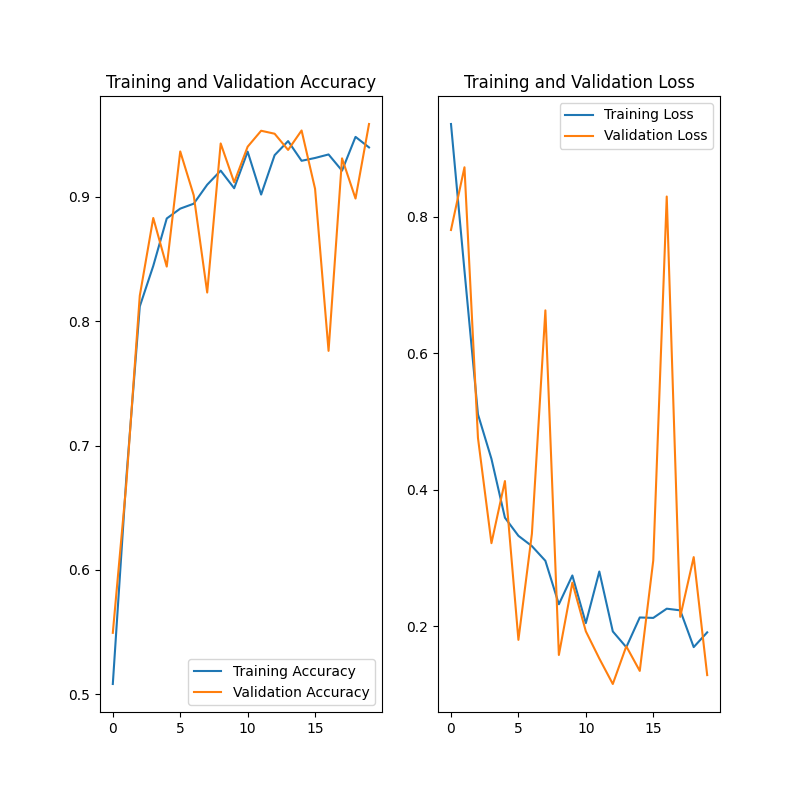
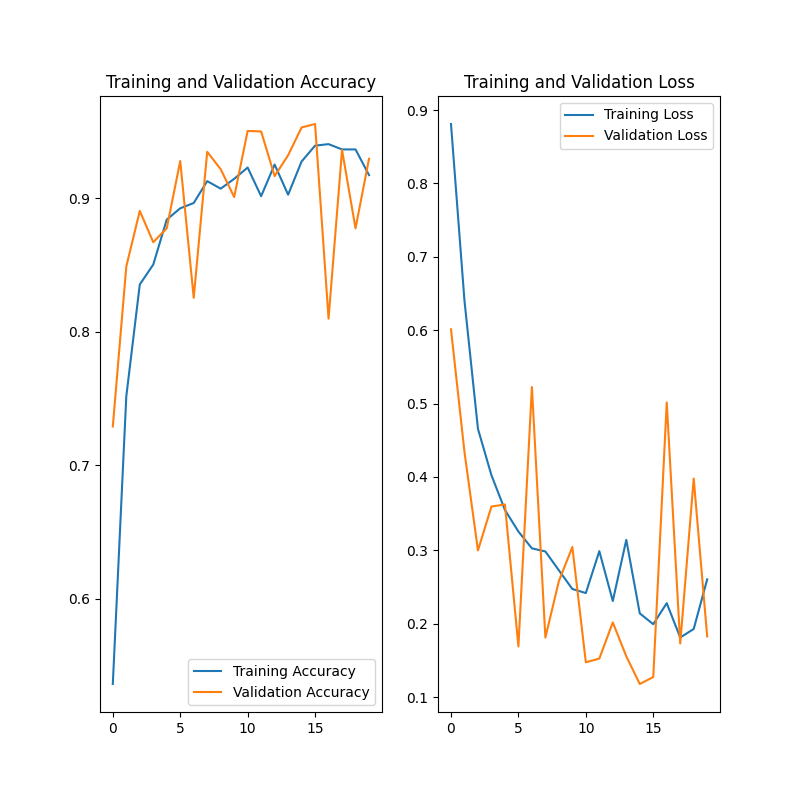
augmentation improved, reshaped cnn arch

diff --git a/src/papi_main.py b/src/papi_main.py
@@ -11,7 +11,7 @@ from plot_utils import *
 IMAGE_SIZE = 256
 BATCH_SIZE = 32
 CHANNELS = 3
-EPOCHS = 1
+EPOCHS = 25
 
 
 
@@ -28,31 +28,17 @@ dataset = tf.keras.preprocessing.image_dataset_from_directory(
 )
 class_names = dataset.class_names
 
-'''
-print(f"\n\nClasses found: {class_names}")
-print(f"\n\nDataset size: {len(dataset)}\n(Note it is approx. n° of elements in our datasets/batches)")
-
-plt.figure(figsize=(10, 10))
-for image_batch, labels_batch in dataset.take(1):
-    for i in range(12):
-        ax = plt.subplot(3, 4, i + 1)
-        plt.imshow(image_batch[i].numpy().astype("uint8"))
-        plt.title(class_names[labels_batch[i]])
-        plt.axis("off")
-plt.tight_layout()
-plt.savefig("plots/samples.png")
-print("\n\nSamples grid saved to plots/samples.png")
-'''
-
+#print(f"\n\nClasses found: {class_names}")
+#print(f"\n\nDataset size: {len(dataset)}\n(Note it is approx. n° of elements in our datasets/batches)")
+#plot_random_samples(dataset, class_names)
 
 # Split dataset into train, validation and test sets
 train_ds, val_ds, test_ds = get_dataset_partitions_tf(dataset)
 
-'''
-print(f"\n\nTraining:   {len(train_ds)}")
-print(f"Validation: {len(val_ds)}")
-print(f"Testing:    {len(test_ds)}")
-'''
+
+#print(f"\n\nTraining:   {len(train_ds)}")
+#print(f"Validation: {len(val_ds)}")
+#print(f"Testing:    {len(test_ds)}")
 
 
 
@@ -68,27 +54,42 @@ resize_and_rescale = tf.keras.Sequential([
 
 
 # Model architecture
+# Conv2D -- feature extraction
+# MaxPooling2D -- dimensionality reduction
+# GlobalAveragePooling -- summarization of feature maps (vector out)
+# Flatten -- flatten the output of prev. layer (vector out)
+# Dense -- decision making
+# Dropout -- regularization tech. to drop random neurons
+#
+# IDEA: Conv2D -> Conv2D -> MaxPooling2D 
+#       Conv2D -> Conv2D -> MaxPooling2D 
+#       Conv2D -> Conv2D -> MaxPooling2D
+#       Flatten 
+#       Dense 
+#       Dropout 
+#       Dense 
+
 n_classes = 3
 
 model = models.Sequential([
     tf.keras.Input(shape=(IMAGE_SIZE, IMAGE_SIZE, CHANNELS)),    
     resize_and_rescale,
     layers.Conv2D(32, kernel_size=(3,3), activation='relu'),
+    layers.Conv2D(32, kernel_size=(3,3), activation='relu'),
     layers.MaxPooling2D((2,2)),
-    layers.Conv2D(64, (3,3), activation='relu'),
+    layers.Conv2D(64, kernel_size=(3,3), activation='relu'),
+    layers.Conv2D(64, kernel_size=(3,3), activation='relu'),
     layers.MaxPooling2D((2,2)),
-    layers.Conv2D(64, (3,3), activation='relu'),
+    layers.Conv2D(128, kernel_size=(3,3), activation='relu'),
+    layers.Conv2D(128, kernel_size=(3,3), activation='relu'),
     layers.MaxPooling2D((2,2)),
-    layers.Conv2D(64, (3,3), activation='relu'),
-    layers.MaxPooling2D((2,2)),
-    layers.Conv2D(128, (3,3), activation='relu'),
-    layers.Flatten(),
+    layers.GlobalAveragePooling2D(),
     layers.Dense(64, activation='relu'),
-    layers.Dropout(0.3), # To avoid overfitting we drop 20% of the neurons in the fully connected layer during training 
+    layers.Dropout(0.3), # To avoid overfitting we drop 30% of the neurons in the fully connected layer during training 
     layers.Dense(n_classes, activation='softmax'),
 ])
 
-# print(model.summary())
+print(model.summary())
 
 
 
@@ -98,13 +99,26 @@ model = models.Sequential([
 
 # Data Augmentation
 data_augmentation = tf.keras.Sequential([
-  layers.RandomFlip("horizontal_and_vertical"),
-  layers.RandomRotation(0.2),
-  layers.RandomZoom(0.2),
-  layers.RandomContrast(0.2),
-  layers.RandomBrightness(0.2),
-  layers.RandomTranslation(0.2, 0.2),
-  layers.RandomCrop(IMAGE_SIZE, IMAGE_SIZE),
+    # Occlusion
+    layers.RandomCrop(IMAGE_SIZE, IMAGE_SIZE),
+
+    # Geometrical
+    layers.RandomFlip("horizontal"),
+    layers.RandomRotation(0.3),
+    layers.RandomZoom(
+        height_factor=(-0.2, 0.2), 
+        width_factor=(-0.2, 0.2)        
+    ),
+    layers.RandomTranslation(0.15, 0.15),
+
+    # Color & Lighting
+    layers.RandomBrightness(0.3),
+    layers.RandomContrast(0.3),
+    layers.RandomHue(0.05),
+    layers.Lambda(lambda x: tf.map_fn(safe_saturation, x)),
+
+    # Noise
+    layers.GaussianNoise(0.02),
 ])
 
 # Apply data augmentation to training dataset
@@ -148,10 +162,21 @@ plot_predictions_grid(model, test_ds, class_names, predict)
 cm = compute_confusion_matrix(model, test_ds)
 plot_confusion_matrix(cm, class_names)
 
+# Classification Report
+cr = compute_classification_report(model, test_ds)
+print(f"\n\nClassification Report:\n{cr}")
+
+# Augmentation Visualization e.g. 3 random versions from train_ds
+plot_augmentation_effect(
+    train_ds,
+    data_augmentation,
+    class_names,
+    save_path="plots/augmentation_test.png",
+)
 
 
 ##############
 # MODEL SAVE #
 ##############
 
-model.save("models/v4.keras")
+model.save("models/v5.keras")

diff --git a/src/plot_utils.py b/src/plot_utils.py
@@ -1,8 +1,37 @@
 from libraries import *
 from nn_utils import *
 
+# Random image sample 
+def plot_random_samples(dataset, class_names, n_images=12, save_path="plots/random_samples.png"):
+    plt.figure(figsize=(8,8))
+    images_collected = 0
 
-# LEARNING CURVES
+    for image_batch, labels_batch in dataset.shuffle(1000).take(10):
+        for i in range(len(image_batch)):
+            if images_collected >= n_images:
+                break
+
+            plt.subplot(3, 4, images_collected + 1)
+
+            img = image_batch[i].numpy().astype("uint8")
+            label = labels_batch[i].numpy()
+
+            plt.imshow(img)
+            plt.title(class_names[label])
+            plt.axis("off")
+
+            images_collected += 1
+
+        if images_collected >= n_images:
+            break
+
+    plt.tight_layout()
+    plt.savefig(save_path)
+    print(f"\n\nSaved random samples to {save_path}")
+
+
+
+# learning curves
 def plot_learning_curves(history, epochs, save_path="plots/learning_curves.png"):
     acc = history.history['accuracy']
     val_acc = history.history['val_accuracy']
@@ -32,7 +61,7 @@ def plot_learning_curves(history, epochs, save_path="plots/learning_curves.png")
     print(f"\n\nLearning curves saved to {save_path}")
 
 
-# PREDICTION GRID EXAMPLE
+# prediction grid example
 import matplotlib.pyplot as plt
 
 def plot_predictions_grid(model, dataset, class_names, predict_fn, 
@@ -67,7 +96,7 @@ def plot_predictions_grid(model, dataset, class_names, predict_fn,
     print(f"\n\nPredictions grid example saved to {save_path}")
 
 
-# CONFUSION MATRIX
+# Confusion matrix
 def plot_confusion_matrix(cm, class_names):
     
     plt.figure(figsize=(8, 6))
@@ -78,3 +107,61 @@ def plot_confusion_matrix(cm, class_names):
     plt.savefig('plots/confusion_matrix.png', dpi=300, bbox_inches='tight')
     print("Confusion Matrix saved to plots/confusion_matrix.png")
 
+
+# Augmentation
+def plot_augmentation_effect(dataset, data_augmentation, class_names, save_path="plots/augmentation.png"):
+
+    # Get all images and labels from dataset
+    all_images = []
+    all_labels = []
+    
+    for images, labels in dataset:
+        all_images.extend(images.numpy())
+        all_labels.extend(labels.numpy())
+    
+    # Pick 3 random different images
+    random_indices = random.sample(range(len(all_images)), 3)
+    sample_images = [all_images[idx] for idx in random_indices]
+    sample_labels = [all_labels[idx] for idx in random_indices]
+
+    plt.figure(figsize=(10, 12))
+
+    # Row 1: Original 1 and Augmented 1
+    plt.subplot(3, 2, 1)
+    plt.imshow(sample_images[0].astype("uint8"))
+    plt.title(f"Original 1: {class_names[sample_labels[0]]}")
+    plt.axis("off")
+
+    augmented_1 = data_augmentation(tf.expand_dims(tf.convert_to_tensor(sample_images[0], dtype=tf.float32), 0), training=True)
+    plt.subplot(3, 2, 2)
+    plt.imshow(augmented_1[0].numpy().astype("uint8"))
+    plt.title("Augmented 1")
+    plt.axis("off")
+
+    # Row 2: Original 2 and Augmented 2
+    plt.subplot(3, 2, 3)
+    plt.imshow(sample_images[1].astype("uint8"))
+    plt.title(f"Original 2: {class_names[sample_labels[1]]}")
+    plt.axis("off")
+
+    augmented_2 = data_augmentation(tf.expand_dims(tf.convert_to_tensor(sample_images[1], dtype=tf.float32), 0), training=True)
+    plt.subplot(3, 2, 4)
+    plt.imshow(augmented_2[0].numpy().astype("uint8"))
+    plt.title("Augmented 2")
+    plt.axis("off")
+
+    # Row 3: Original 3 and Augmented 3
+    plt.subplot(3, 2, 5)
+    plt.imshow(sample_images[2].astype("uint8"))
+    plt.title(f"Original 3: {class_names[sample_labels[2]]}")
+    plt.axis("off")
+
+    augmented_3 = data_augmentation(tf.expand_dims(tf.convert_to_tensor(sample_images[2], dtype=tf.float32), 0), training=True)
+    plt.subplot(3, 2, 6)
+    plt.imshow(augmented_3[0].numpy().astype("uint8"))
+    plt.title("Augmented 3")
+    plt.axis("off")
+
+    plt.tight_layout()
+    plt.savefig(save_path)
+    print(f"\n\nSaved augmentation comparison to {save_path}")

diff --git a/src/test_aug.py b/src/test_aug.py
@@ -1,0 +1,48 @@
+from libraries import *
+from nn_utils import *
+from plot_utils import *
+
+IMAGE_SIZE = 256
+BATCH_SIZE = 32
+
+dataset = tf.keras.preprocessing.image_dataset_from_directory(
+    "datasets",
+    seed=123,
+    shuffle=True,
+    image_size=(IMAGE_SIZE,IMAGE_SIZE),
+    batch_size=BATCH_SIZE
+)
+class_names = dataset.class_names
+
+train_ds, val_ds, test_ds = get_dataset_partitions_tf(dataset)
+
+data_augmentation = tf.keras.Sequential([
+    # Occlusion
+    layers.RandomCrop(IMAGE_SIZE, IMAGE_SIZE),
+
+    # Geometrical
+    layers.RandomFlip("horizontal"),
+    layers.RandomRotation(0.3),
+    layers.RandomZoom(
+        height_factor=(-0.2, 0.2), 
+        width_factor=(-0.2, 0.2)        
+    ),
+    layers.RandomTranslation(0.15, 0.15),
+
+    # Color & Lighting
+    layers.RandomBrightness(0.3),
+    layers.RandomContrast(0.3),
+    layers.RandomHue(0.05),
+    layers.Lambda(lambda x: tf.map_fn(safe_saturation, x)),
+
+    # Noise
+    layers.GaussianNoise(0.02),
+])
+
+plot_augmentation_effect(
+    train_ds,
+    data_augmentation,
+    class_names,
+    save_path="plots/augmentation_test.png",
+)
+

diff --git a/src/nn_utils.py b/src/nn_utils.py
@@ -46,7 +46,22 @@ def compute_confusion_matrix(model, test_ds):
     
     return confusion_matrix(y_true, y_pred)
 
+# Classification report 
+def compute_classification_report(model, test_ds):
+    
+    y_true = []
+    y_pred = []
+    
+    for images, labels in test_ds:
+        predictions = model.predict(images)
+        y_pred.extend(np.argmax(predictions, axis=1))
+        y_true.extend(labels.numpy())
+    
+    return classification_report(y_true, y_pred)
 
+# Safe saturation
+def safe_saturation(x):
+    return tf.image.random_saturation(x, lower=0.75, upper=1.25)
 
 
 

diff --git a/src/libraries.py b/src/libraries.py
@@ -5,6 +5,7 @@ from tensorflow import keras
 from keras import layers, models
 from keras.models import load_model
 from PIL import Image
-from sklearn.metrics import confusion_matrix, ConfusionMatrixDisplay
+from sklearn.metrics import confusion_matrix, ConfusionMatrixDisplay, classification_report
+import random
 
 
